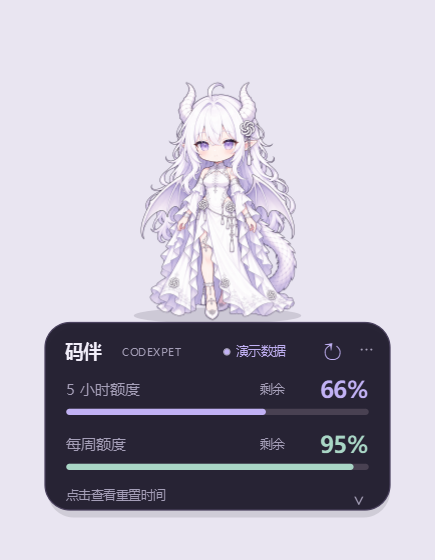
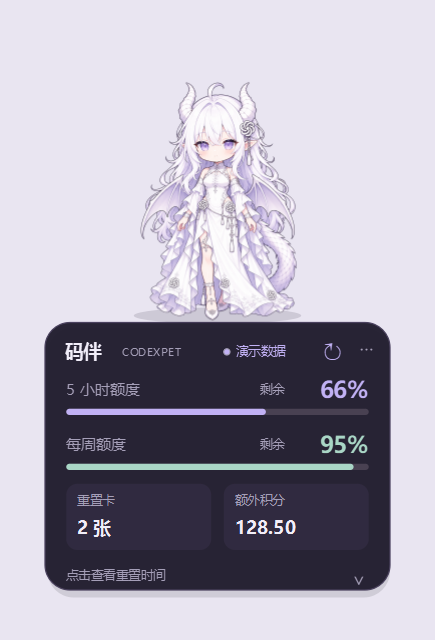
Show reset cards and extra credit balance in pet quota panel

Changed region(s): [[0.0897, 0.1214, 0.8966, 0.9411]]

diff --git a/src/codexpet/app.py b/src/codexpet/app.py
@@ -1,4 +1,5 @@
 from datetime import datetime
+from decimal import Decimal
 import argparse
 import json
 import math
@@ -20,8 +21,8 @@ from .appearance import APPEARANCES, PAT_DURATION, pat_transform
 
 BASE_WIDTH = 300
 TOP_MARGIN = 32
-COMPACT_HEIGHT = 368
-EXPANDED_HEIGHT = 520
+COMPACT_HEIGHT = 432
+EXPANDED_HEIGHT = 584
 CARD_TOP = 202
 PURPLE = '#c1b1f4'
 TEXT = '#f1edf9'
@@ -120,7 +121,8 @@ class PetWindow(QWidget):
             QTimer.singleShot(200, self.refresh)
         if demo:
             now = time.time()
-            self.snapshot = Snapshot(Window(34, 300, now + 7260), Window(5, 10080, now + 365400), 'Plus', now)
+            self.snapshot = Snapshot(Window(34, 300, now + 7260), Window(5, 10080, now + 365400), 'Plus', now,
+                                     2, Decimal('128.50'))
 
     def resize_for_state(self):
         self.setFixedSize(round(BASE_WIDTH * self.scale), round(((EXPANDED_HEIGHT if self.expanded else COMPACT_HEIGHT) + TOP_MARGIN) * self.scale))
@@ -175,6 +177,7 @@ class PetWindow(QWidget):
             for window in (snapshot.primary, snapshot.secondary):
                 if window and window.remaining is not None:
                     rows.append(f'{window.label}：剩余 {window.remaining:g}%')
+            rows.extend((f'重置卡：{snapshot.reset_credits_text}', f'额外积分：{snapshot.credit_balance_text}'))
             self.tray.setToolTip('CodexPet · 码伴\n' + '\n'.join(rows))
         self.update()
 
@@ -312,18 +315,25 @@ class PetWindow(QWidget):
             if remaining is not None and remaining > 0:
                 p.setBrush(QColor(color))
                 p.drawRoundedRect(QRectF(29, y + 26, max(3, 242 * remaining / 100), 5), 2.5, 2.5)
+        extra_values = (self.snapshot.reset_credits_text, self.snapshot.credit_balance_text) if self.snapshot else ('未提供', '未提供')
+        for x, label, value in zip((29, 155), ('重置卡', '额外积分'), extra_values):
+            p.setPen(Qt.PenStyle.NoPen)
+            p.setBrush(QColor('#302a40'))
+            p.drawRoundedRect(QRectF(x, 331, 116, 53), 9, 9)
+            self.text(p, x + 9, 336, 98, 17, label + (' · 上次' if self.stale() else ''), 10, MUTED)
+            self.text(p, x + 9, 354, 98, 24, value, 14, '#b6a899' if self.stale() else TEXT, True)
         if self.error:
             footer = '连接异常 · 点击查看处理方法'
         elif self.stale():
             footer = '上次数据 · 等待同步'
         else:
             footer = '收起详情' if self.expanded else '点击查看重置时间'
-        self.text(p, 29, 331, 230, 19, footer, 10, MUTED)
-        self.text(p, 255, 330, 17, 20, '⌃' if self.expanded else '⌄', 16, MUTED, align=Qt.AlignmentFlag.AlignCenter)
+        self.text(p, 29, 395, 230, 19, footer, 10, MUTED)
+        self.text(p, 255, 394, 17, 20, '⌃' if self.expanded else '⌄', 16, MUTED, align=Qt.AlignmentFlag.AlignCenter)
         if self.expanded:
             p.setPen(QPen(QColor('#494152'), 1))
-            p.drawLine(QPointF(29, 359), QPointF(271, 359))
-            for index, y in enumerate((369, 411)):
+            p.drawLine(QPointF(29, 423), QPointF(271, 423))
+            for index, y in enumerate((433, 475)):
                 window = (self.snapshot.primary, self.snapshot.secondary)[index] if self.snapshot else None
                 self.text(p, 29, y, 242, 19, reset_text(window), 12, TEXT)
                 label = window.label if window else ('主要额度' if index == 0 else '次要额度')
@@ -337,7 +347,7 @@ class PetWindow(QWidget):
                 detail = f'{self.snapshot.plan} · 上次更新 {stamp}\n每 2 分钟自动刷新 · 右键可调整桌宠'
             else:
                 detail = '正在连接本机 Codex CLI…\n若未登录，请先在终端运行 codex login'
-            self.text(p, 29, 454, 242, 48, detail, 10, '#e9bd81' if self.error else MUTED,
+            self.text(p, 29, 518, 242, 48, detail, 10, '#e9bd81' if self.error else MUTED,
                       align=Qt.AlignmentFlag.AlignLeft | Qt.AlignmentFlag.AlignVCenter | Qt.TextFlag.TextWordWrap)
         if self.bubble:
             p.setPen(QPen(QColor('#d3c7ec'), 1))
@@ -434,6 +444,7 @@ class PetWindow(QWidget):
         menu.addSeparator()
         menu.addAction('选择 codex.exe…', self.choose_cli)
         menu.addAction('连接帮助', self.connection_help)
+        menu.addAction('重置卡与积分说明', self.credit_help)
         menu.addAction('打开项目文件夹', lambda: QDesktopServices.openUrl(QUrl.fromLocalFile(str(project_root()))))
         if self.tray:
             menu.addAction('隐藏到托盘', self.hide)
@@ -502,6 +513,16 @@ class PetWindow(QWidget):
             self.error = ''
             self.settings.update(cli_path=path)
             self.refresh()
+
+    def credit_help(self):
+        QMessageBox.information(self, '重置卡与额外积分 · 码伴',
+            '重置卡：每次兑换消耗 1 张，用于重置符合条件的 Codex 额度窗口。\n'
+            '具体恢复哪些窗口以 Codex 的兑换说明和结果为准；卡片可能有到期时间。\n'
+            '需要兑换时，请在 Codex 中使用重置入口。码伴只显示数量。\n\n'
+            '额外积分：套餐额度用尽后可继续使用的 credits 余额，不是金额或消息条数。\n'
+            '余额按两位小数显示；“不限量”仅在服务明确返回时显示。\n\n'
+            '两项与额度每 2 分钟一起刷新；“未提供”表示 CLI 或服务没有返回数据。\n'
+            '连接失败时保留上次结果并标记“上次”，不会把未知数据当成 0。')
 
     def connection_help(self):
         QMessageBox.information(self, '连接 Codex · 码伴',
@@ -632,7 +653,10 @@ def main():
             snap = window.snapshot
             result = {'ok': bool(snap), 'error': window.error, 'assetLoaded': not window.pet.isNull(), 'appearance': window.appearance, 'frozen': bool(getattr(sys, 'frozen', False)),
                       'primaryRemaining': snap.primary.remaining if snap and snap.primary else None,
-                      'secondaryRemaining': snap.secondary.remaining if snap and snap.secondary else None}
+                      'secondaryRemaining': snap.secondary.remaining if snap and snap.secondary else None,
+                      'resetCredits': snap.reset_credits if snap else None,
+                      'creditBalance': str(snap.credit_balance) if snap and snap.credit_balance is not None else None,
+                      'creditsUnlimited': snap.credits_unlimited if snap else False}
             args.check.write_text(json.dumps(result, ensure_ascii=False, indent=2), encoding='utf-8')
             window.expanded = True
             window.resize_for_state()

diff --git a/tests/test_quota.py b/tests/test_quota.py
@@ -1,12 +1,51 @@
 import sys
 from pathlib import Path
 import unittest
+from decimal import Decimal
 
 sys.path.insert(0, str(Path(__file__).resolve().parents[1] / 'src'))
 from codexpet.quota import Window, parse_snapshot, reset_text
 
 
 class QuotaTests(unittest.TestCase):
+    def extras(self, credits=None, resets=None):
+        return parse_snapshot({'rateLimitsByLimitId': {'codex': {
+            'primary': {'usedPercent': 100}, 'credits': credits}}, 'rateLimitResetCredits': resets})
+
+    def test_balance_and_authoritative_reset_count(self):
+        snap = self.extras({'balance': '886.3598500000', 'hasCredits': True},
+                           {'availableCount': 3, 'credits': [{'id': 'only-one-detail'}]})
+        self.assertEqual(snap.reset_credits, 3)
+        self.assertEqual(snap.reset_credits_text, '3 张')
+        self.assertEqual(snap.credit_balance, Decimal('886.3598500000'))
+        self.assertEqual(snap.credit_balance_text, '886.36')
+
+    def test_extra_values_distinguish_zero_unknown_and_unlimited(self):
+        unknown = self.extras({'hasCredits': False}, {'credits': []})
+        self.assertEqual(unknown.reset_credits_text, '未提供')
+        self.assertEqual(unknown.credit_balance_text, '未提供')
+        zero = self.extras({'balance': '0'}, {'availableCount': 0})
+        self.assertEqual(zero.reset_credits_text, '0 张')
+        self.assertEqual(zero.credit_balance_text, '0.00')
+        self.assertEqual(self.extras({'unlimited': True}).credit_balance_text, '不限量')
+        self.assertEqual(self.extras({'unlimited': 'true'}).credit_balance_text, '未提供')
+
+    def test_invalid_extra_values_do_not_break_valid_quota(self):
+        for value in (None, True, -1, 'NaN', 'Infinity', '-0.1', {}, [], 'bad'):
+            with self.subTest(value=value):
+                snap = self.extras({'balance': value}, {'availableCount': value})
+                self.assertIsNone(snap.credit_balance)
+                self.assertIsNone(snap.reset_credits)
+                self.assertEqual(snap.primary.remaining, 0)
+        for count in ('2', 2.5):
+            self.assertIsNone(self.extras(resets={'availableCount': count}).reset_credits)
+
+    def test_extra_values_do_not_leak_from_other_bucket_or_previous_snapshot(self):
+        snap = parse_snapshot({'rateLimits': {'credits': {'balance': '99'}},
+                               'rateLimitsByLimitId': {'codex': {'primary': {'usedPercent': 0}}}})
+        self.assertIsNone(snap.credit_balance)
+        self.assertEqual(self.extras({'balance': '10000000'}).credit_balance_text, '1.00E+7')
+
     def test_prefers_codex_bucket_over_legacy_and_other_models(self):
         data = {'rateLimits': {'primary': {'usedPercent': 99}}, 'rateLimitsByLimitId': {
             'other': {'primary': {'usedPercent': 2}},

diff --git a/src/codexpet/quota.py b/src/codexpet/quota.py
@@ -1,6 +1,7 @@
 """Pure quota interpretation. Unknown values must never become zero."""
 from dataclasses import dataclass
 from datetime import datetime
+from decimal import Decimal, InvalidOperation
 import math
 import time
 
@@ -43,6 +44,23 @@ class Snapshot:
     secondary: Window | None
     plan: str
     fetched_at: float
+    reset_credits: int | None = None
+    credit_balance: Decimal | None = None
+    credits_unlimited: bool = False
+
+    @property
+    def reset_credits_text(self):
+        return '未提供' if self.reset_credits is None else f'{self.reset_credits} 张'
+
+    @property
+    def credit_balance_text(self):
+        if self.credits_unlimited:
+            return '不限量'
+        if self.credit_balance is None:
+            return '未提供'
+        if self.credit_balance >= Decimal('1000000'):
+            return f'{self.credit_balance:.2E}'
+        return f'{self.credit_balance:,.2f}'
 
     def stale(self, now=None):
         now = time.time() if now is None else now
@@ -73,7 +91,24 @@ def parse_snapshot(result, now=None):
         raise ValueError('当前账号未提供可显示的额度；请确认使用 ChatGPT 账号登录')
     plan = raw.get('planType')
     plan = plan.title() if isinstance(plan, str) and len(plan) < 30 else 'Codex'
-    return Snapshot(primary, secondary, plan, time.time() if now is None else now)
+    resets = result.get('rateLimitResetCredits')
+    count = resets.get('availableCount') if isinstance(resets, dict) else None
+    # The service may cap the detail list; never infer this count from its length.
+    if type(count) is not int or count < 0:
+        count = None
+    credits = raw.get('credits')
+    credits = credits if isinstance(credits, dict) else {}
+    balance = credits.get('balance')
+    amount = None
+    if type(balance) in (str, int, float) and len(str(balance)) <= 100:
+        try:
+            parsed = Decimal(str(balance))
+            if parsed.is_finite() and parsed >= 0:
+                amount = parsed
+        except InvalidOperation:
+            pass
+    return Snapshot(primary, secondary, plan, time.time() if now is None else now,
+                    count, amount, credits.get('unlimited') is True)
 
 
 def reset_text(window, now=None):

diff --git a/tests/fake_server.py b/tests/fake_server.py
@@ -22,6 +22,9 @@ for line in sys.stdin:
         if mode == 'auth':
             print(json.dumps({'id': request['id'], 'error': {'code': 401, 'message': 'auth token secret-must-not-leak'}}), flush=True)
         else:
-            print(json.dumps({'id': request['id'], 'result': {'rateLimits': {'primary': {'usedPercent': 42, 'windowDurationMins': 300}}}}), flush=True)
+            print(json.dumps({'id': request['id'], 'result': {
+                'rateLimits': {'primary': {'usedPercent': 42, 'windowDurationMins': 300},
+                               'credits': {'balance': '12.3400', 'unlimited': False}},
+                'rateLimitResetCredits': {'availableCount': 2, 'credits': None}}}), flush=True)
     else:
         raise RuntimeError('Unexpected non-read-only RPC')

diff --git a/tools/capture_states.py b/tools/capture_states.py
@@ -1,5 +1,6 @@
 """Render the real UI's offline demonstration states for visual QA."""
 from pathlib import Path
+from decimal import Decimal
 import sys
 import time
 
@@ -51,7 +52,7 @@ QTest.qWait(50)
 save('preview-unavailable.png')
 window.demo = True
 now = time.time()
-window.on_success(Snapshot(Window(34, 300, now + 7260), Window(5, 10080, now + 365400), 'Plus', now))
+window.on_success(Snapshot(Window(34, 300, now + 7260), Window(5, 10080, now + 365400), 'Plus', now, 2, Decimal('128.50')))
 window.expanded = False
 window.resize_for_state()
 window.change_appearance('chibi')

diff --git a/tests/test_client.py b/tests/test_client.py
@@ -23,7 +23,10 @@ class ClientTests(unittest.TestCase):
             self.assertIsNotNone(proc.poll(), 'Client left a subprocess running')
 
     def test_handshake_ids_noise_and_read_only_request(self):
-        self.assertEqual(self.request('ok').primary.remaining, 58)
+        snapshot = self.request('ok')
+        self.assertEqual(snapshot.primary.remaining, 58)
+        self.assertEqual(snapshot.reset_credits, 2)
+        self.assertEqual(snapshot.credit_balance_text, '12.34')
 
     def test_auth_message_redacted(self):
         with self.assertRaises(UsageError) as error:

diff --git a/src/codexpet/__init__.py b/src/codexpet/__init__.py
@@ -1,2 +1,2 @@
 """CodexPet · 码伴."""
-__version__ = '0.2.0'
+__version__ = '0.3.0'
